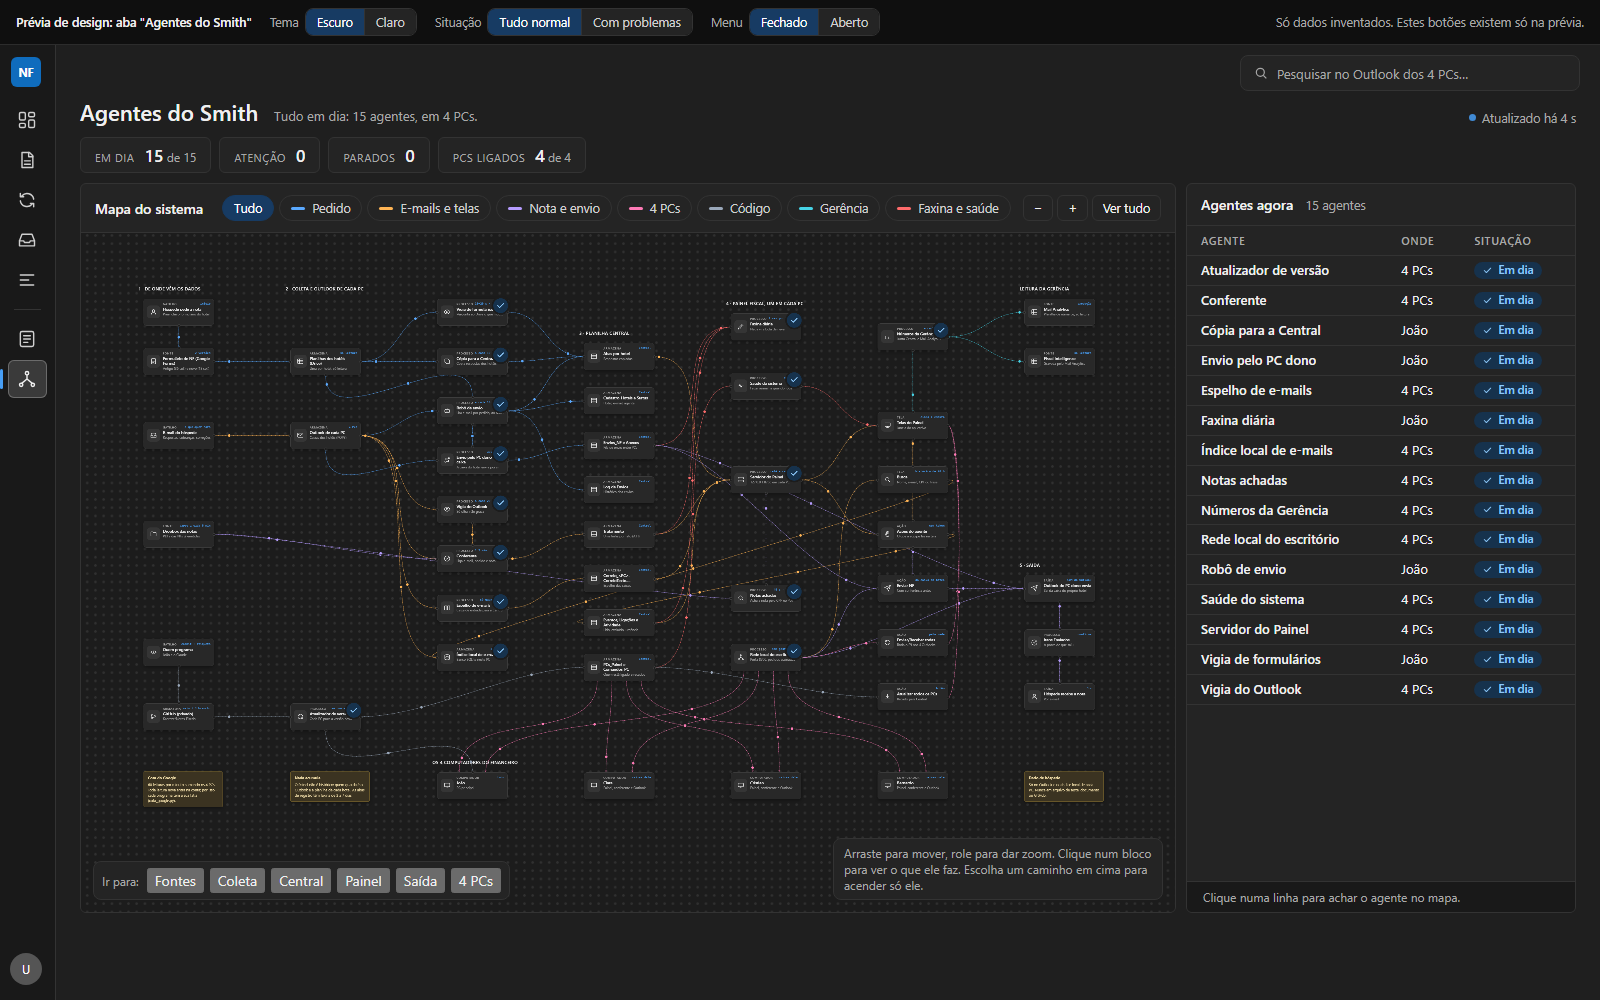
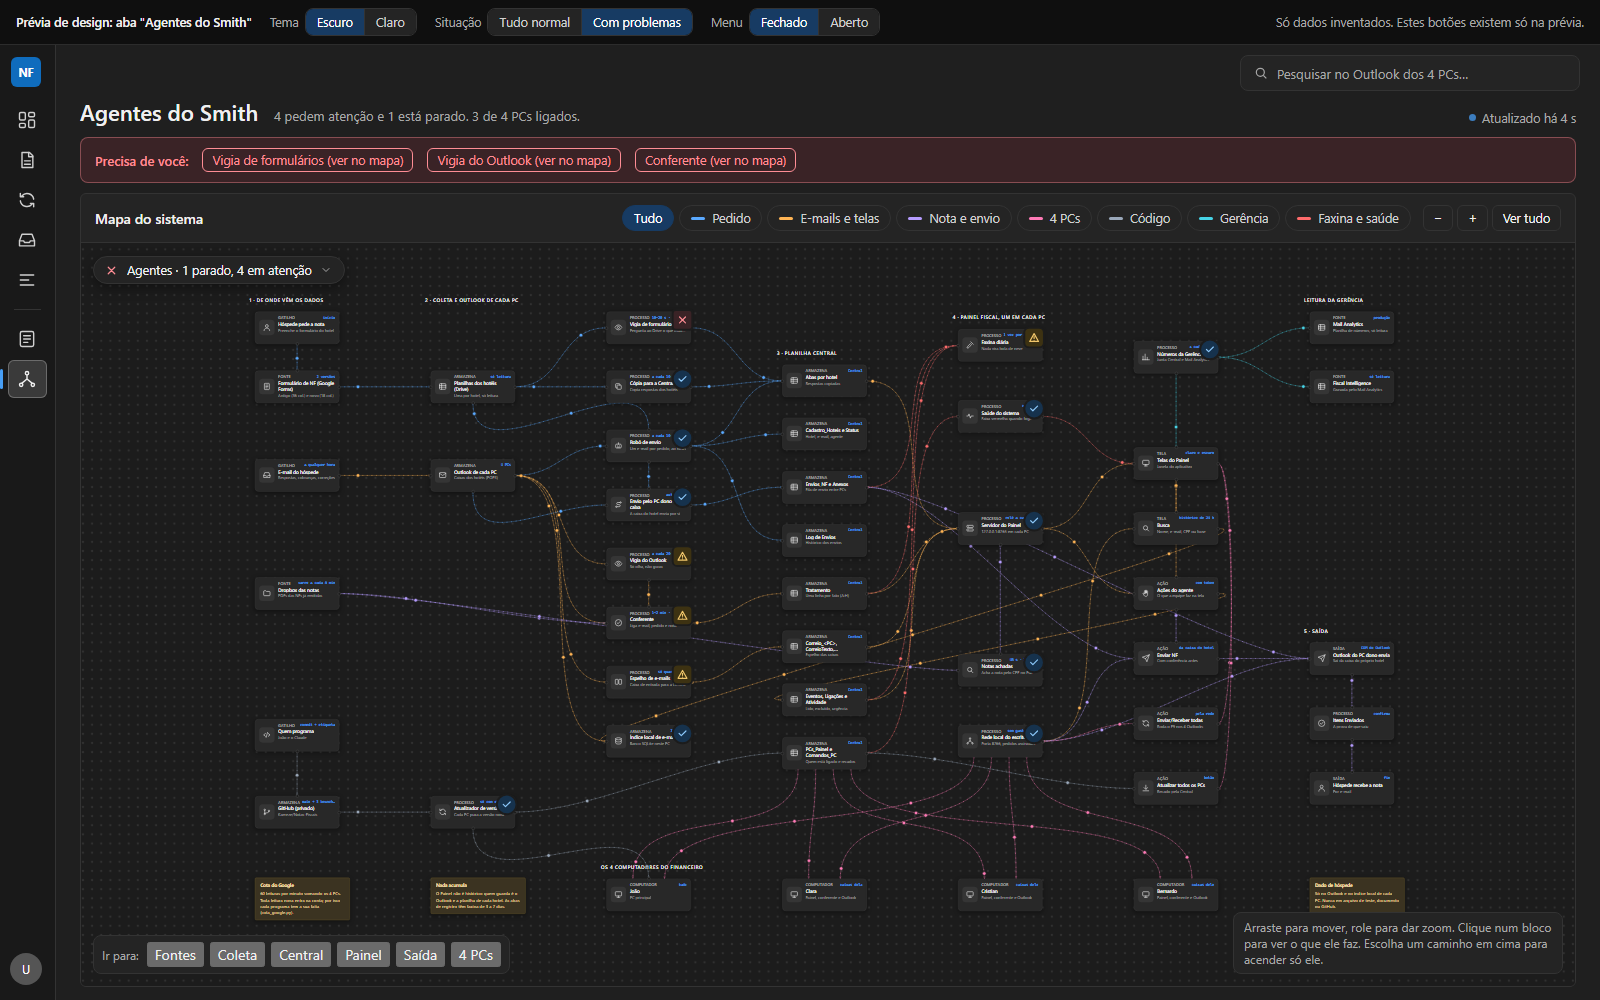
Cofre: prévia Agentes do Smith com mapa grande e lista de agentes minimalista
Só documentação, sem etiqueta.

diff --git a/Segundo Cérebro (Agente Smith)/6 Documentos/Designs/2026-10-28 Agentes do Smith.html b/Segundo Cérebro (Agente Smith)/6 Documentos/Designs/2026-10-28 Agentes do Smith.html
@@ -68,6 +68,21 @@ button { font: inherit; color: inherit; }
 :root[data-theme="light"] .seg button[aria-pressed="true"], :root:not([data-theme="dark"]) .seg button[aria-pressed="true"] { }
 .pv .dica-pv { margin-left: auto; color: var(--muted); }
 
+/* agentes: painel flutuante minimalista sobre o mapa */
+.ag { position: absolute; left: 12px; top: 62px; z-index: 6; display: flex; flex-direction: column; gap: 6px; align-items: flex-start; }
+.ag-bt { display: inline-flex; align-items: center; gap: 8px; background: var(--card); border: 1px solid var(--line); border-radius: 999px; padding: 5px 12px 5px 9px; cursor: pointer; font-size: 12.5px; box-shadow: var(--shadow); }
+.ag-bt:hover { border-color: var(--sel-line); }
+.ag-bt .g, .ag-l .g { width: 16px; height: 16px; display: grid; place-items: center; flex: none; }
+.ag-bt svg, .ag-l svg { width: 13px; height: 13px; fill: none; stroke: currentColor; stroke-width: 2.3; stroke-linecap: round; stroke-linejoin: round; }
+.g.ok { color: var(--ok-fg); } .g.atencao { color: var(--at-fg); } .g.parado { color: var(--pa-fg); } .g.desligado { color: var(--of-fg); }
+.ag-bt .cv { transition: transform .2s; width: 12px; height: 12px; fill: none; stroke: var(--muted); stroke-width: 2; }
+.ag-bt[aria-expanded="true"] .cv { transform: rotate(180deg); }
+.ag-lista { background: var(--card); border: 1px solid var(--line); border-radius: 8px; box-shadow: var(--shadow); padding: 4px; width: 250px; max-height: min(440px, 55vh); overflow-y: auto; }
+.ag-l { display: flex; align-items: flex-start; gap: 8px; width: 100%; border: 0; background: transparent; border-radius: 5px; padding: 5px 8px; cursor: pointer; text-align: left; font-size: 12.5px; color: var(--text2); }
+.ag-l .g { margin-top: 1px; }
+.ag-l:hover, .ag-l.on { background: var(--sel); color: var(--text); }
+.ag-l .t { display: flex; flex-direction: column; min-width: 0; }
+.ag-l small { color: var(--muted); font-size: 11.5px; line-height: 1.3; }
 /* janela do Painel */
 .win { display: grid; grid-template-columns: auto 1fr; height: calc(100% - 44px); min-height: 640px; }
 .rail { background: var(--rail); border-right: 1px solid var(--line); display: flex; flex-direction: column; padding: 10px 8px; gap: 2px; width: 56px; transition: width .22s ease; overflow: hidden; }
@@ -116,7 +131,8 @@ button { font: inherit; color: inherit; }
 .kp strong em { font-style: normal; font-size: 12px; color: var(--muted); font-weight: 400; }
 .kp.at strong { color: var(--at-fg); } .kp.pa strong { color: var(--pa-fg); }
 
-.grade { display: grid; grid-template-columns: minmax(0, 1fr) 390px; gap: 10px; height: clamp(520px, calc(100vh - 270px), 860px); min-height: 520px; }
+.grade { display: flex; flex-direction: column; flex: 1; min-height: 480px; }
+.cartao.mapa { flex: 1; position: relative; }
 .cartao { background: var(--card); border: 1px solid var(--line); border-radius: 6px; display: flex; flex-direction: column; min-width: 0; min-height: 0; overflow: hidden; }
 .cartao > header { display: flex; flex-wrap: nowrap; gap: 8px 12px; align-items: center; padding: 11px 14px; border-bottom: 1px solid var(--line); }
 .cartao h2 { margin: 0; font-size: 14px; font-weight: 600; white-space: nowrap; }
@@ -156,7 +172,7 @@ button { font: inherit; color: inherit; }
 .st.parado { background: var(--pa-bg); color: var(--pa-fg); border-radius: 4px; } .st.desligado { background: var(--of-bg); color: var(--of-fg); }
 .agora-pc { display: grid; grid-template-columns: 1fr auto; gap: 2px 10px; padding: 8px 10px; border: 1px solid var(--line); border-radius: 6px; margin-bottom: 6px; }
 .agora-pc small { grid-column: 1 / -1; color: var(--muted); font-size: 12px; }
-@media (max-width: 1180px) { .grade { grid-template-columns: 1fr; height: auto; } .grade .cartao.mapa { height: 560px; } .grade .lista { max-height: 460px; } .kps { grid-template-columns: repeat(2, 1fr); } }
+@media (max-width: 1180px) { .ag { max-width: 230px; } }
 @media (max-width: 760px) { .win { grid-template-columns: 1fr; } .rail { display: none; } }
 @media (prefers-reduced-motion: reduce) { .cab .ao i { animation: none; } .rail { transition: none; } }
 
@@ -278,7 +294,6 @@ svg.edges { position: absolute; left: 0; top: 0; width: 3400px; height: 2000px; 
         <span class="ao"><i></i><span id="ao-txt">Atualizado há 4 s</span></span>
       </div>
       <div class="faixa" id="faixa" role="status"></div>
-      <div class="kps" id="kps"></div>
       <div class="grade">
         <section class="cartao mapa" aria-label="Mapa do sistema">
           <header>
@@ -297,11 +312,10 @@ svg.edges { position: absolute; left: 0; top: 0; width: 3400px; height: 2000px; 
     <div class="dica">Arraste para mover, role para dar zoom. Clique num bloco para ver o que ele faz. Escolha um caminho em cima para acender só ele.</div>
     <aside class="painel" id="painel" aria-live="polite"></aside>
   </main>
-        </section>
-        <section class="cartao lista" aria-label="Agentes agora">
-          <header><h2>Agentes agora</h2><span class="sub" id="sub-lista"></span></header>
-          <div class="rolagem"><table class="tb"><thead><tr><th>Agente</th><th>Onde</th><th>Situação</th></tr></thead><tbody id="tb"></tbody></table></div>
-          <div class="rod"><span>Clique numa linha para achar o agente no mapa.</span></div>
+        <div class="ag" id="ag">
+          <button class="ag-bt" id="ag-bt" type="button" aria-expanded="false" aria-controls="ag-lista"></button>
+          <div class="ag-lista" id="ag-lista" hidden></div>
+        </div>
         </section>
       </div>
     </div>
@@ -411,12 +425,10 @@ svg.edges { position: absolute; left: 0; top: 0; width: 3400px; height: 2000px; 
     var pcsOff = {}; linhas.forEach(function (l) { l.a.pcs.forEach(function (x) { if (x.est === "desligado") pcsOff[x.pc] = 1; }); });
     var nOff = Object.keys(pcsOff).length;
 
+    var ligados = (4 - nOff) + " de 4 PCs ligados.";
     $("resumo").textContent = c.parado + c.atencao === 0
-      ? "Tudo em dia: " + ids.length + " agentes, em 4 PCs."
-      : (c.atencao ? c.atencao + (c.atencao > 1 ? " pedem" : " pede") + " atenção" : "") + (c.atencao && c.parado ? " e " : "") + (c.parado ? c.parado + (c.parado > 1 ? " estão parados" : " está parado") : "") + ".";
-    function kp(rot, val, de, cls, dica) { return '<div class="kp' + (cls ? " " + cls : "") + '" title="' + dica + '"><small>' + rot + "</small><strong>" + val + (de ? "<em> de " + de + "</em>" : "") + "</strong></div>"; }
-    $("kps").innerHTML = kp("Em dia", c.ok, ids.length, "", "Agentes no ritmo esperado") + kp("Atenção", c.atencao, 0, c.atencao ? "at" : "", "Fora do ritmo esperado") +
-      kp("Parados", c.parado, 0, c.parado ? "pa" : "", "Sem sinal fora do ritmo") + kp("PCs ligados", 4 - nOff, 4, "", nOff ? Object.keys(pcsOff).join(", ") + " fora" : "João, Clara, Cristian e Bernardo");
+      ? "Tudo em dia: " + ids.length + " agentes. " + ligados
+      : (c.atencao ? c.atencao + (c.atencao > 1 ? " pedem" : " pede") + " atenção" : "") + (c.atencao && c.parado ? " e " : "") + (c.parado ? c.parado + (c.parado > 1 ? " estão parados" : " está parado") : "") + ". " + ligados;
 
     var f = $("faixa"), itens = linhas.filter(function (l) { return l.g.est !== "ok"; });
     f.className = "faixa" + (itens.length ? " on " + (c.parado ? "vermelha" : "ambar") : "");
@@ -432,24 +444,26 @@ svg.edges { position: absolute; left: 0; top: 0; width: 3400px; height: 2000px; 
 
     var ordem = { parado: 0, atencao: 1, ok: 2 };
     linhas.sort(function (x, y) { return ordem[x.g.est] - ordem[y.g.est] || x.a.nome.localeCompare(y.a.nome, "pt"); });
-    var tb = $("tb"); tb.innerHTML = "";
+    var lista = $("ag-lista"); lista.innerHTML = "";
     linhas.forEach(function (l) {
-      var tr = document.createElement("tr"); tr.className = "l" + (l.id === selecionado ? " on" : ""); tr.dataset.id = l.id; tr.tabIndex = 0;
-      var onde = l.a.onde === "4 PCs" && l.g.off ? (4 - l.g.off) + " de 4 PCs" : l.a.onde;
-      tr.innerHTML = '<td><span class="nome"></span><small></small></td><td></td><td><span class="pil ' + l.g.est + '">' + glifo(l.g.est) + NOMES[l.g.est] + "</span></td>";
-      tr.children[0].children[0].textContent = l.a.nome; tr.children[0].children[1].textContent = l.g.est === "ok" ? "" : l.g.resumo; tr.title = l.g.resumo; tr.children[1].textContent = onde;
-      tr.onclick = function () { window.mapaEscolher(l.id); };
-      tr.onkeydown = function (e) { if (e.key === "Enter" || e.key === " ") { e.preventDefault(); window.mapaEscolher(l.id); } };
-      tb.appendChild(tr);
+      var bt = document.createElement("button"); bt.type = "button"; bt.className = "ag-l" + (l.id === selecionado ? " on" : ""); bt.dataset.id = l.id; bt.title = l.g.resumo;
+      bt.innerHTML = '<span class="g ' + l.g.est + '">' + glifo(l.g.est) + '</span><span class="t"><span></span><small></small></span>';
+      bt.querySelector(".t span").textContent = l.a.nome;
+      var sm = bt.querySelector("small"); if (l.g.est === "ok") sm.remove(); else sm.textContent = l.g.resumo;
+      bt.onclick = function () { window.mapaEscolher(l.id); };
+      lista.appendChild(bt);
     });
-    $("sub-lista").textContent = ids.length + " agentes";
+    var pior = c.parado ? "parado" : (c.atencao ? "atencao" : "ok");
+    var rot = c.parado + c.atencao === 0 ? "Agentes · " + c.ok + " em dia" : "Agentes · " + (c.parado ? c.parado + " parado" + (c.parado > 1 ? "s" : "") : "") + (c.parado && c.atencao ? ", " : "") + (c.atencao ? c.atencao + " em atenção" : "");
+    var abt = $("ag-bt"); abt.innerHTML = '<span class="g ' + pior + '">' + glifo(pior) + "</span><span>" + rot + '</span><svg class="cv" viewBox="0 0 24 24" aria-hidden="true"><path d="m6 9 6 6 6-6"/></svg>';
+    lista.hidden = abt.getAttribute("aria-expanded") !== "true";
     var pc = document.querySelector("#pc-aviso"); if (pc) pc.remove();
   }
   window.aoEscolherNo = function (id) {
     selecionado = id;
-    document.querySelectorAll("#tb tr").forEach(function (tr) { tr.classList.toggle("on", tr.dataset.id === id); });
-    var ln = id && document.querySelector('#tb tr[data-id="' + id + '"]'); if (ln && ln.scrollIntoView) ln.scrollIntoView({ block: "nearest" });
+    document.querySelectorAll("#ag-lista .ag-l").forEach(function (b) { b.classList.toggle("on", b.dataset.id === id); });
   };
+  $("ag-bt").onclick = function () { var b = $("ag-bt"), ab = b.getAttribute("aria-expanded") === "true"; b.setAttribute("aria-expanded", String(!ab)); $("ag-lista").hidden = ab; };
 
   /* menu */
   function menu() {
@@ -1128,6 +1142,7 @@ svg.edges { position: absolute; left: 0; top: 0; width: 3400px; height: 2000px; 
   if (t.indexOf("problemas") >= 0) q('#s-cen button[data-v="problemas"]');
   if (t.indexOf("claro") >= 0) q('#s-tema button[data-v="light"]');
   if (t.indexOf("aberto") >= 0) q('#s-menu button[data-v="aberto"]');
+  if (t.indexOf("agentes") >= 0) q("#ag-bt");
   var i = t.indexOf("no"); if (i >= 0 && t[i + 1] && window.mapaEscolher) setTimeout(function () { window.mapaEscolher(t[i + 1]); }, 150);
 })();
 </script>

diff --git a/Segundo Cérebro (Agente Smith)/6 Documentos/Designs.md b/Segundo Cérebro (Agente Smith)/6 Documentos/Designs.md
@@ -20,7 +20,7 @@ ela abre no navegador. As que estão também no claude.ai têm o link lá (só a
 ### Aba "Agentes do Smith" (mapa + estado ao vivo) · 28/10/2026
 Pedido do João: pôr o mapa do sistema dentro do Painel, numa aba só dele (grupo Admin, abaixo de Monitoramento, só no PC principal),
 com o estado ao vivo dos agentes. Escolhas dele: mapa animado, estado vivo junto, posição no menu e nome exatos.
-Prévia com 2 temas, 2 situações (tudo normal e com problemas) e menu fechado ou aberto; situação por texto e selo, sem verde.
+Prévia com 2 temas, 2 situações (tudo normal e com problemas) e menu fechado ou aberto; situação por texto e selo, sem verde. Revisão do mesmo dia: o mapa ocupa quase a tela toda e os agentes viraram um botão flutuante sobre o mapa (lista só com ícone e nome; o texto longo só aparece quando há problema); os cartões de resumo saíram e o resumo ficou numa linha ao lado do título.
 Esperando o OK do João para codar.
 - **Abrir a página:** [[2026-10-28 Agentes do Smith.html|Agentes do Smith]] (atalhos na barra do endereço: `#problemas`, `#claro-aberto`, `#problemas-no-vigia`) · claude.ai: https://claude.ai/artifact/G9L4RQjc4raPNXfXnKJSrL
 
